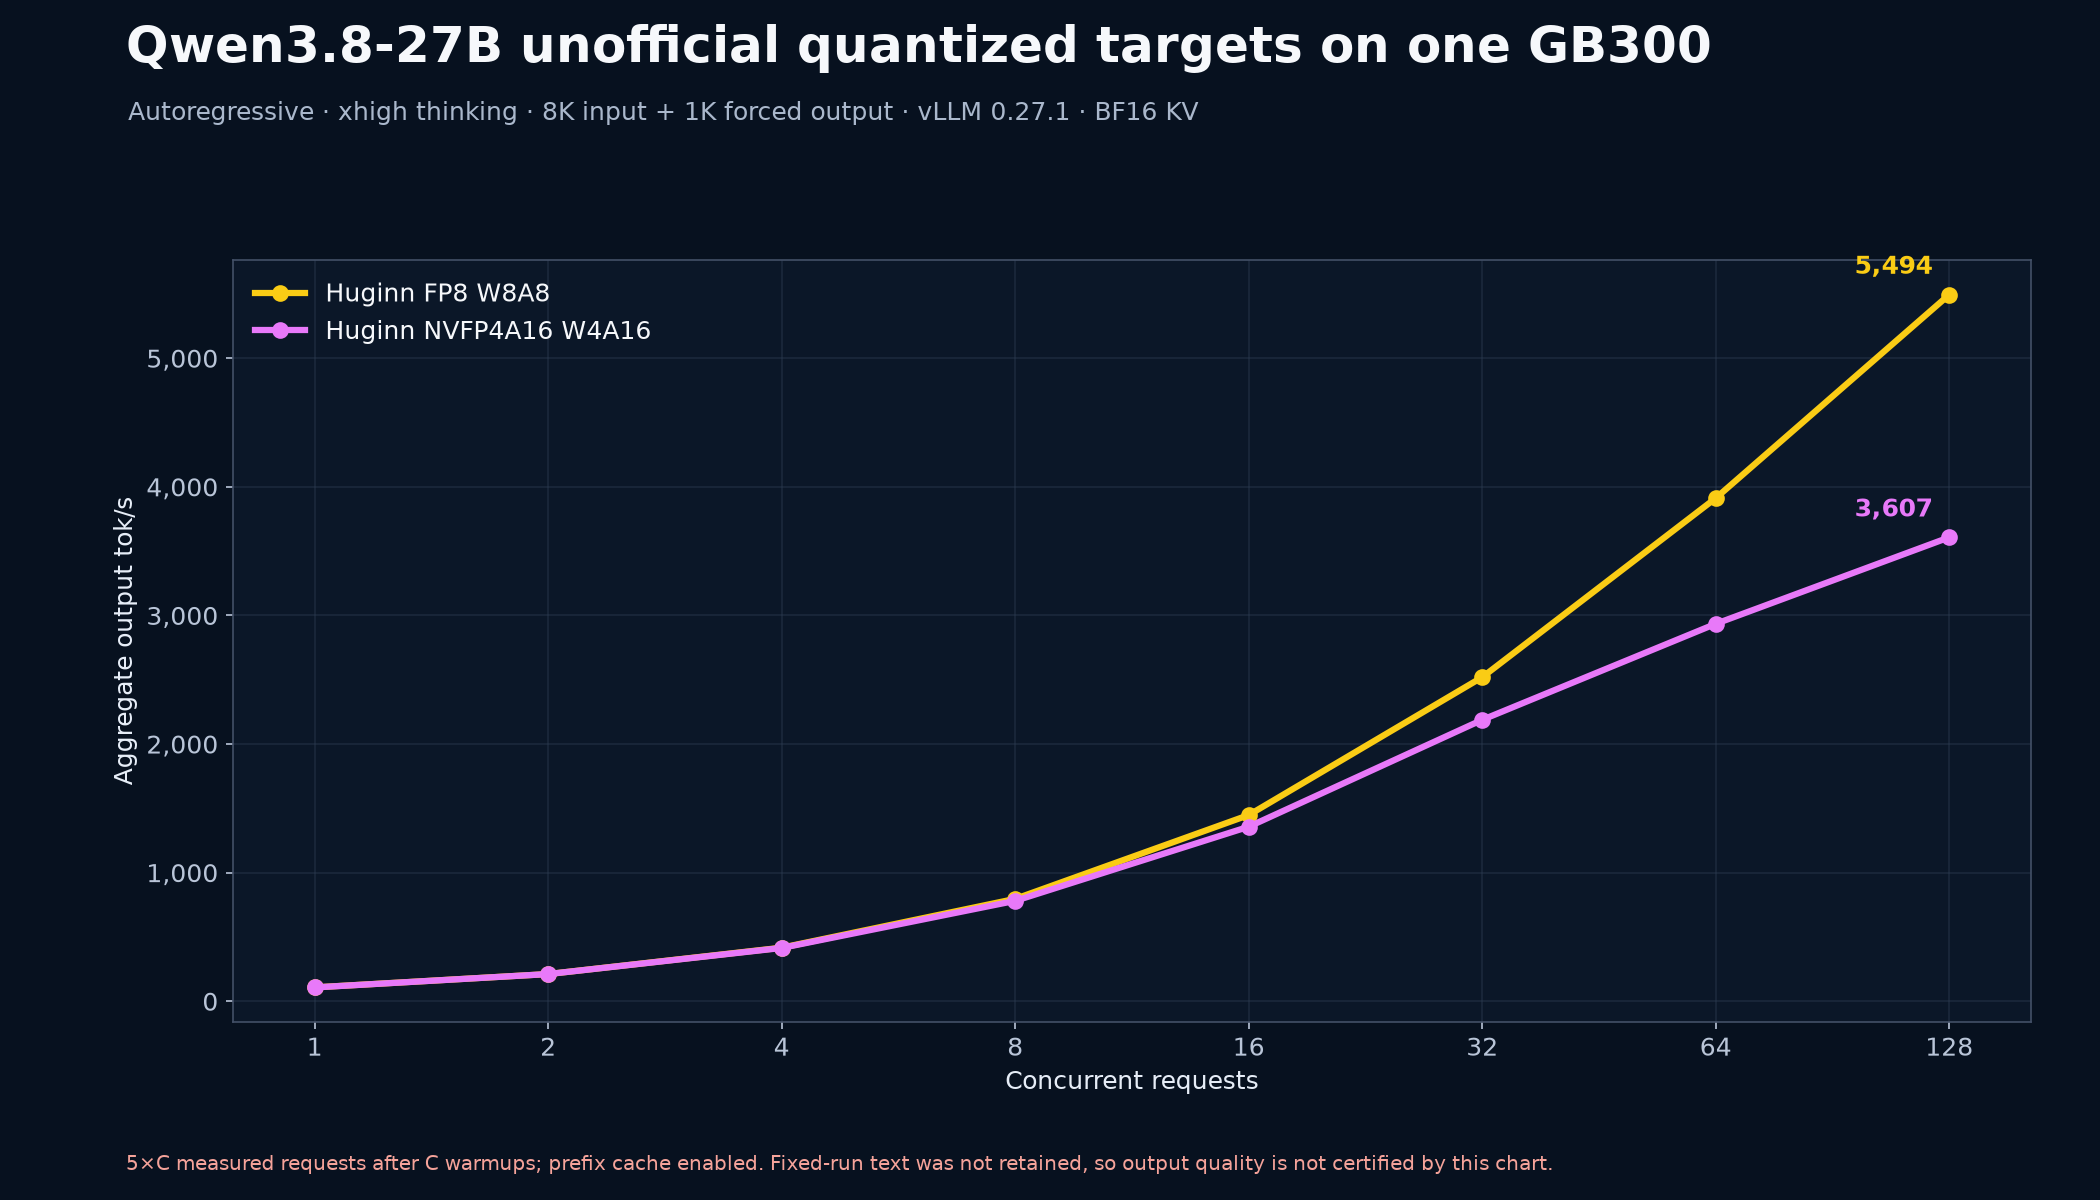
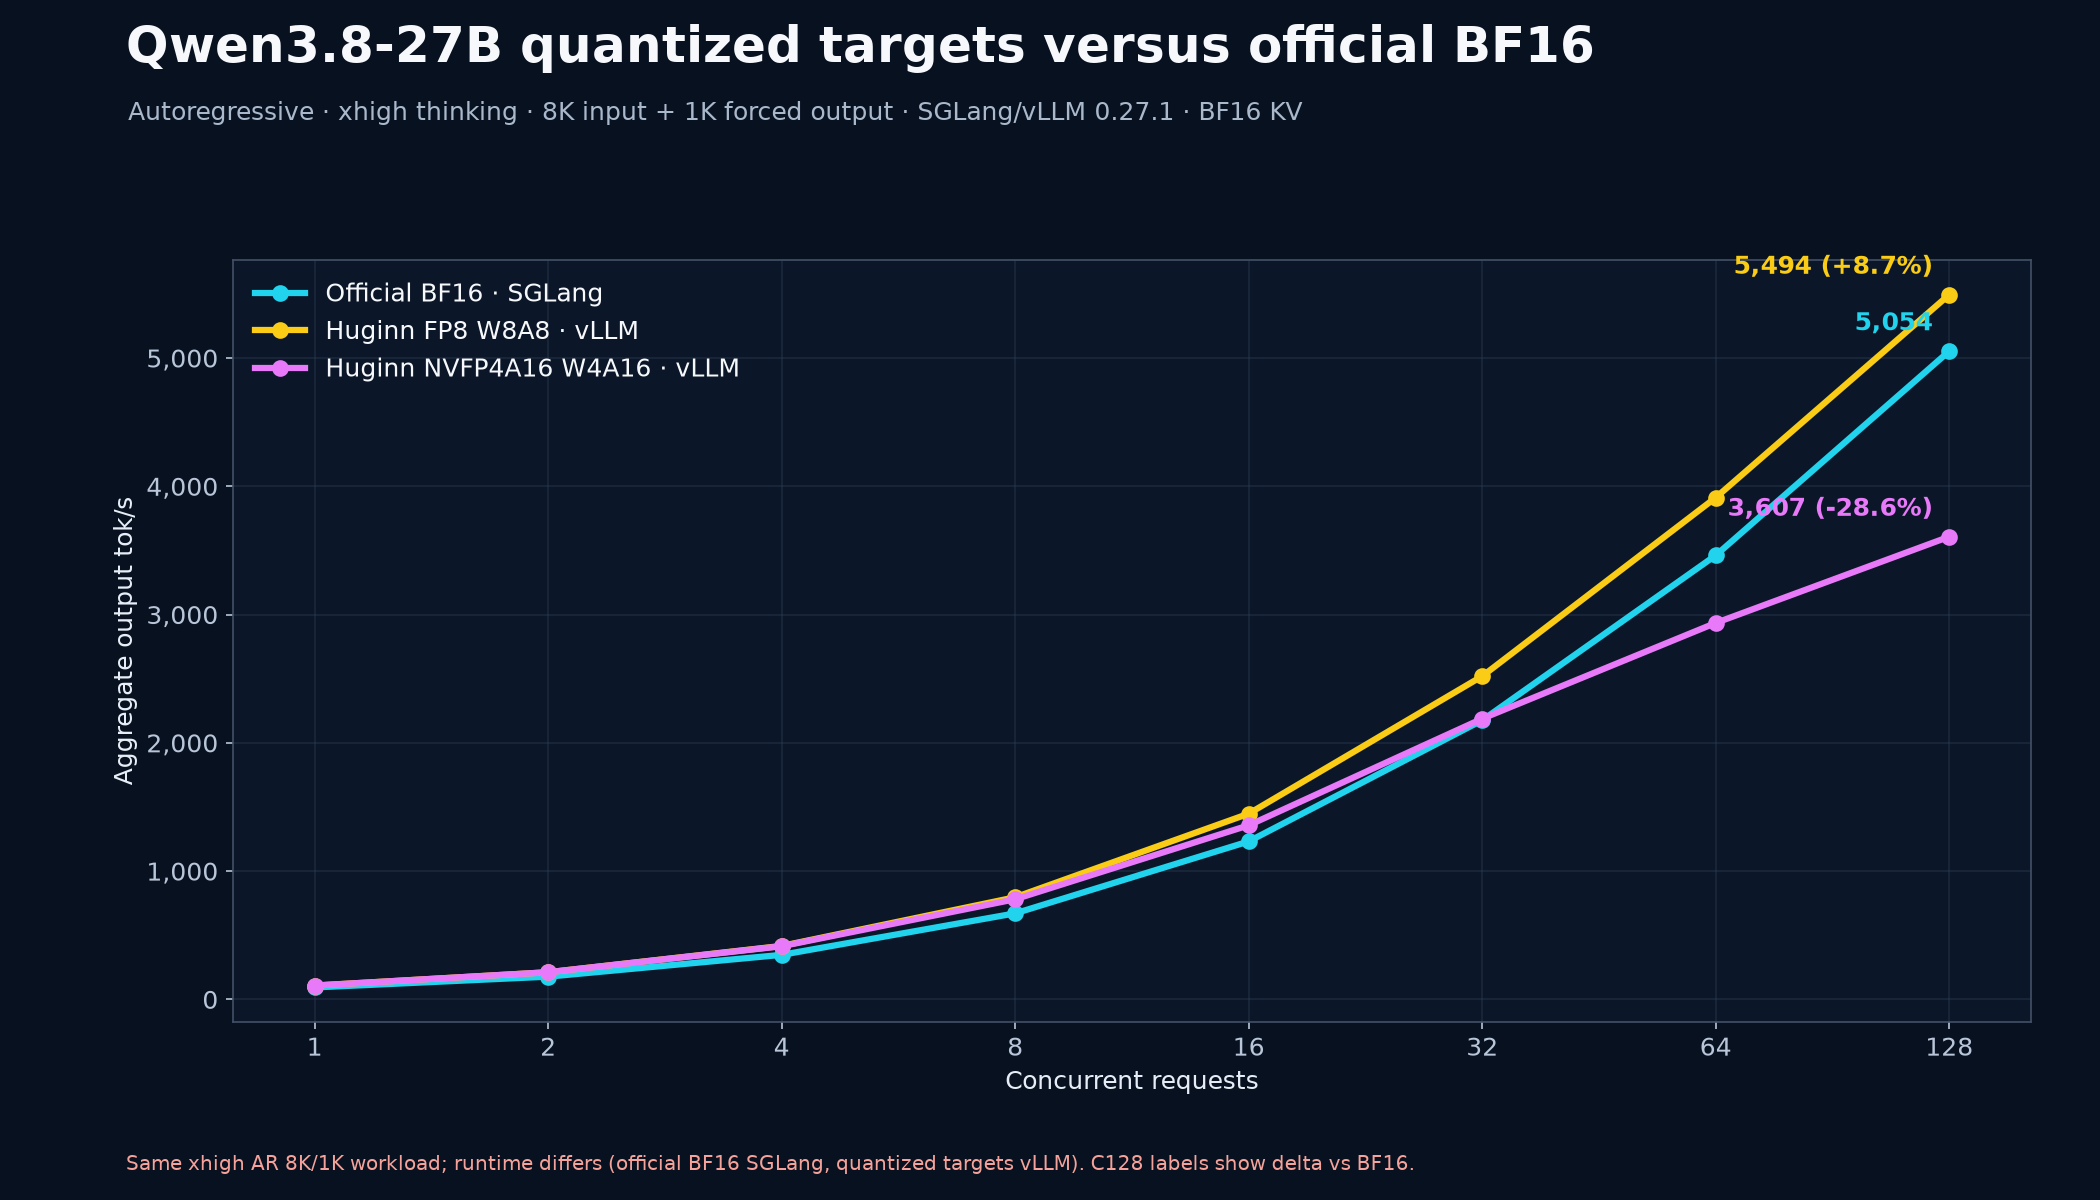
Clarify Qwen quantization comparisons

diff --git a/qwen3.8-27b/recipes/render_quant_charts.py b/qwen3.8-27b/recipes/render_quant_charts.py
@@ -17,9 +17,10 @@ PACKAGE = Path(__file__).resolve().parents[1]
 DATA = PACKAGE / "data"
 CHARTS = PACKAGE / "charts"
 CONCURRENCIES = [1, 2, 4, 8, 16, 32, 64, 128]
-QUANT_MODES = {
-    "huginn-fp8-autoregressive": ("Huginn FP8 W8A8", "#facc15"),
-    "huginn-nvfp4-autoregressive": ("Huginn NVFP4A16 W4A16", "#e879f9"),
+DECODE_MODES = {
+    "autoregressive": ("Official BF16 · SGLang", "#22d3ee"),
+    "huginn-fp8-autoregressive": ("Huginn FP8 W8A8 · vLLM", "#facc15"),
+    "huginn-nvfp4-autoregressive": ("Huginn NVFP4A16 W4A16 · vLLM", "#e879f9"),
 }
 
 
@@ -57,7 +58,7 @@ def validate() -> tuple[
     perplexity = rows(DATA / "wikitext2-perplexity.csv")
     quality = rows(DATA / "huginn-natural-xhigh-audit.csv")
 
-    for mode in QUANT_MODES:
+    for mode in DECODE_MODES:
         selected = [
             row
             for row in throughput
@@ -99,7 +100,14 @@ def validate() -> tuple[
 
 def render_throughput(data: list[dict[str, str]]) -> None:
     fig, ax = plt.subplots(figsize=(14, 8))
-    for mode, (label, color) in QUANT_MODES.items():
+    baseline_c128 = next(
+        float(row["aggregate_tps"])
+        for row in data
+        if row["mode"] == "autoregressive"
+        and row["thinking"] == "xhigh"
+        and row["concurrency"] == "128"
+    )
+    for mode, (label, color) in DECODE_MODES.items():
         selected = sorted(
             (
                 row
@@ -111,8 +119,10 @@ def render_throughput(data: list[dict[str, str]]) -> None:
         xs = [int(row["concurrency"]) for row in selected]
         ys = [float(row["aggregate_tps"]) for row in selected]
         ax.plot(xs, ys, marker="o", markersize=7, linewidth=3, label=label, color=color)
+        delta = 100 * (ys[-1] / baseline_c128 - 1)
+        endpoint = f"{ys[-1]:,.0f}" if mode == "autoregressive" else f"{ys[-1]:,.0f} ({delta:+.1f}%)"
         ax.annotate(
-            f"{ys[-1]:,.0f}",
+            endpoint,
             (xs[-1], ys[-1]),
             xytext=(-8, 10),
             textcoords="offset points",
@@ -130,7 +140,7 @@ def render_throughput(data: list[dict[str, str]]) -> None:
     ax.grid(True, alpha=0.42)
     ax.legend(frameon=False, loc="upper left")
     fig.suptitle(
-        "Qwen3.8-27B unofficial quantized targets on one GB300",
+        "Qwen3.8-27B quantized targets versus official BF16",
         x=0.06,
         ha="left",
         fontsize=24,
@@ -139,14 +149,14 @@ def render_throughput(data: list[dict[str, str]]) -> None:
     fig.text(
         0.061,
         0.90,
-        "Autoregressive · xhigh thinking · 8K input + 1K forced output · vLLM 0.27.1 · BF16 KV",
+        "Autoregressive · xhigh thinking · 8K input + 1K forced output · SGLang/vLLM 0.27.1 · BF16 KV",
         color="#aab8cc",
         fontsize=12,
     )
     fig.text(
         0.06,
         0.025,
-        "5×C measured requests after C warmups; prefix cache enabled. Fixed-run text was not retained, so output quality is not certified by this chart.",
+        "Same xhigh AR 8K/1K workload; runtime differs (official BF16 SGLang, quantized targets vLLM). C128 labels show delta vs BF16.",
         color="#f5a39a",
         fontsize=9.5,
     )

diff --git a/qwen3.8-27b/README.md b/qwen3.8-27b/README.md
@@ -30,6 +30,39 @@ The Huginn tree counts, byte totals, and content hashes are retained in [`data/h
 - The natural-output repetition audit flagged **0/1,600 Qwen C64 outputs and 0/3,200 C128 outputs** across AR, DFlash1, DFlash2, DSpark, and MTP.
 - A separate retained-text natural xhigh audit of the unofficial quants did find loops: **20/965 FP8** and **12/965 NVFP4A16** outputs were flagged. Those rates do not apply to the fixed-length throughput rows, which did not retain text.
 
+### Unofficial quantizations versus the official BF16 baseline
+
+The directly comparable decode workload is autoregressive xhigh thinking with
+an 8K input and forced 1K output. Values are aggregate output tok/s; the value
+in parentheses is the change from the official BF16 row at the same
+concurrency.
+
+| Target / runtime | C1 | C16 | C64 | C128 |
+| --- | ---: | ---: | ---: | ---: |
+| Official BF16 / SGLang | 93.0 (baseline) | 1,231.5 (baseline) | 3,461.9 (baseline) | 5,054.2 (baseline) |
+| Huginn FP8 / vLLM | **108.0 (+16.2%)** | **1,447.8 (+17.6%)** | **3,912.1 (+13.0%)** | **5,494.4 (+8.7%)** |
+| Huginn NVFP4A16 / vLLM | 107.4 (+15.5%) | 1,357.0 (+10.2%) | 2,934.9 (−15.2%) | 3,607.4 (−28.6%) |
+
+The FP8 target was the clear quantized throughput winner: it stayed 8.7–17.6%
+ahead of the official BF16 autoregressive baseline at these four points.
+NVFP4A16 helped at low concurrency but crossed behind BF16 at higher load. It
+is a weight-only W4A16 Marlin path—not native W4A4 NVFP4 tensor-core execution.
+
+Prefill used different runtimes and batching ceilings, so the following is an
+end-to-end system comparison rather than an isolated quantization speedup.
+
+| Metric | Official BF16 | Huginn FP8 | Huginn NVFP4A16 |
+| --- | ---: | ---: | ---: |
+| Cold prefill, 8K | 18,212 tok/s | **27,220 (+49.5%)** | 8,897 (−51.1%) |
+| Cold prefill, 128K | 17,022 tok/s | **19,234 (+13.0%)** | 7,939 (−53.4%) |
+| WikiText-2 word PPL ↓ | **9.2942** | 9.3187 (+0.263%) | 9.4434 (+1.605%) |
+
+Quality is the main caveat. Separate EOS-respecting natural xhigh runs flagged
+20/965 FP8 outputs (2.07%) and 12/965 NVFP4A16 outputs (1.24%) for repetition;
+the NVFP4A16 C1 continuation repeated deterministically in all five trials.
+Those audits are not failure rates for the forced-length throughput matrix,
+whose output text was not retained.
+
 ![Qwen throughput across thinking levels](charts/qwen-thinking-grid.png)
 
 ## Fixed-length decode throughput

diff --git a/README.md b/README.md
@@ -19,7 +19,7 @@ performance tuning, runtime quirks, benchmarking practice, and safe recovery.
 
 | Experiment | Checkpoint / precision | Headline result |
 | --- | --- | --- |
-| [Qwen3.8-27B](qwen3.8-27b/) | BF16 plus unofficial Huginn FP8 and NVFP4A16 targets; BF16 KV/Mamba state | DFlash2: 265.8 output tok/s at C1; MTP: 6,348.8 aggregate output tok/s at C128 |
+| [Qwen3.8-27B](qwen3.8-27b/) | BF16 plus unofficial Huginn FP8 and NVFP4A16 targets; BF16 KV/Mamba state | DFlash2: 265.8 tok/s C1; MTP: 6,348.8 C128. Quant AR C128: FP8 5,494.4 (+8.7% vs BF16), NVFP4A16 3,607.4 (−28.6%) |
 | [DeepSeek-V4-Flash-0731](deepseek-v4-flash-0731/) | 304B/13B-active native mixed FP4-expert/FP8-dense checkpoint | DSpark: 345.8 output tok/s at C1; C128 raw, capacity-limited: 6,511.1 aggregate output tok/s |
 | [Ornith-1.5-397B](ornith-1.5-397b/) | Official ModelOpt NVFP4 W4A4 checkpoint; 1× TP1 and 2× PP2/TP2+EP | 1× C1: 129.8 output tok/s; 2× PP2 stable, capacity-limited C128: 3,799.6 aggregate tok/s |
 | [GLM-5.2](glm-5.2/) | Official NVIDIA NVFP4 checkpoint; 2× TP2+EP (1× does not fit) | C1: 68.0 output tok/s; shared-prefix C128: 2,012.4 aggregate tok/s |
